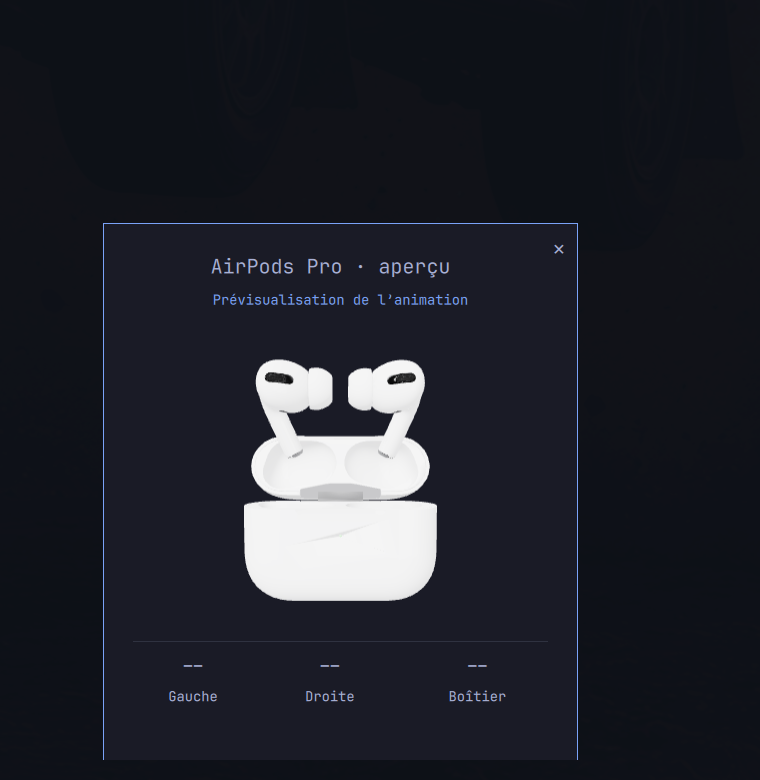
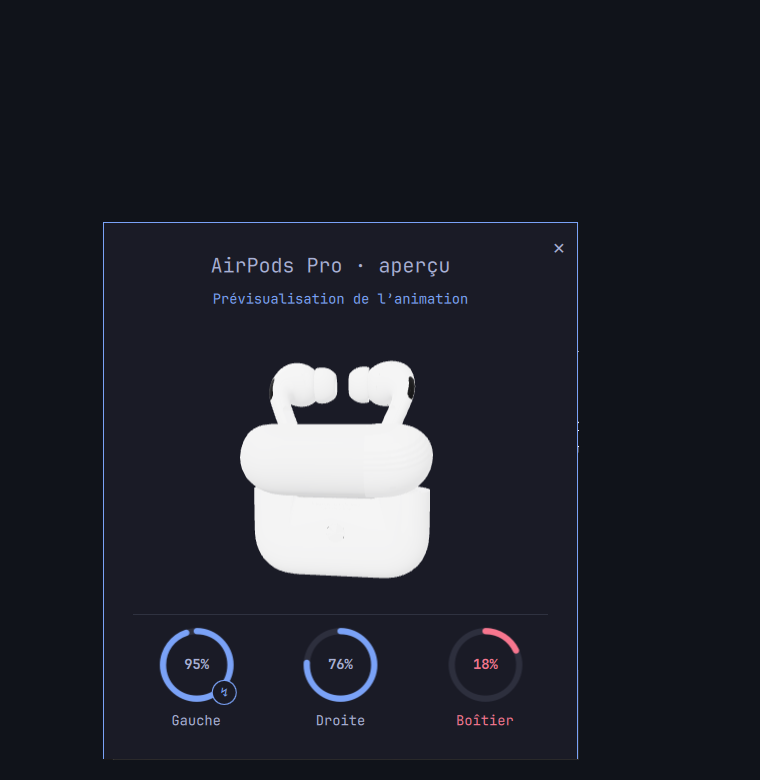
feat: add circular battery indicators

diff --git a/ConnectionCard.qml b/ConnectionCard.qml
@@ -21,11 +21,110 @@ Item {
   readonly property bool showProModel: previewOnly ? previewModel !== "max" : pods && pods.isProSeries
   readonly property bool showThreeDimensionalModel: showMaxModel || showProModel
   readonly property int animationEnd: showMaxModel ? 7800 : 8500
+  readonly property int lowBatteryPercent: 20
 
   readonly property var targetScreen: Quickshell.screens.find(screen =>
     Hyprland.focusedMonitor && screen.name === Hyprland.focusedMonitor.name) || Quickshell.screens[0]
 
   function close() { hideTimer.stop(); exitAnimation.start() }
+
+  function previewBattery(part) {
+    if (part === "left") return { level: 95, charging: true }
+    if (part === "right") return { level: 76, charging: false }
+    if (part === "case") return { level: 18, charging: false }
+    return { level: 82, charging: false }
+  }
+
+  component BatteryRing: ColumnLayout {
+    id: batteryRing
+    required property string label
+    required property var battery
+    readonly property int level: battery && battery.level !== undefined ? battery.level : Model.LEVEL_UNKNOWN
+    readonly property bool charging: battery && battery.charging === true
+    readonly property bool low: level !== Model.LEVEL_UNKNOWN && level <= root.lowBatteryPercent && !charging
+    readonly property color indicatorColor: low ? Color.urgent : Color.accent
+
+    spacing: Style.space(5)
+
+    Item {
+      Layout.alignment: Qt.AlignHCenter
+      implicitWidth: Style.space(64)
+      implicitHeight: Style.space(64)
+
+      Canvas {
+        id: batteryCanvas
+        anchors.fill: parent
+        property real fraction: Model.levelFraction(batteryRing.level)
+        property color activeColor: batteryRing.indicatorColor
+        property color trackColor: Util.alpha(Color.popups.text, 0.13)
+
+        onFractionChanged: requestPaint()
+        onActiveColorChanged: requestPaint()
+        onTrackColorChanged: requestPaint()
+        onWidthChanged: requestPaint()
+        onHeightChanged: requestPaint()
+        onPaint: {
+          var context = getContext("2d")
+          var lineWidth = Math.max(3, Style.space(5))
+          var center = width / 2
+          var radius = Math.max(1, center - lineWidth)
+          var start = -Math.PI / 2
+
+          context.reset()
+          context.lineWidth = lineWidth
+          context.lineCap = "round"
+          context.strokeStyle = trackColor
+          context.beginPath()
+          context.arc(center, center, radius, 0, Math.PI * 2)
+          context.stroke()
+
+          if (fraction > 0) {
+            context.strokeStyle = activeColor
+            context.beginPath()
+            context.arc(center, center, radius, start, start + Math.PI * 2 * fraction)
+            context.stroke()
+          }
+        }
+      }
+
+      Text {
+        anchors.centerIn: parent
+        text: Model.levelText(batteryRing.level)
+        color: batteryRing.low ? Color.urgent : Color.popups.text
+        font.family: Style.font.family
+        font.pixelSize: Style.font.bodySmall
+        font.weight: Font.DemiBold
+      }
+
+      Rectangle {
+        anchors { right: parent.right; bottom: parent.bottom }
+        width: Style.space(20)
+        height: width
+        radius: width / 2
+        visible: batteryRing.charging
+        color: Color.popups.background
+        border.width: Math.max(1, Style.space(1))
+        border.color: Color.accent
+
+        Text {
+          anchors.centerIn: parent
+          text: "\uf0e7"
+          color: Color.accent
+          font.family: Style.font.family
+          font.pixelSize: Style.font.caption
+        }
+      }
+    }
+
+    Text {
+      Layout.fillWidth: true
+      horizontalAlignment: Text.AlignHCenter
+      text: batteryRing.label
+      color: batteryRing.low ? Color.urgent : Color.popups.text
+      font.family: Style.font.family
+      font.pixelSize: Style.font.bodySmall
+    }
+  }
 
   PanelWindow {
     id: window
@@ -137,39 +236,16 @@ Item {
           spacing: Style.space(14)
           Repeater {
             model: root.showMaxModel ? ["headset"] : ["left", "right", "case"]
-            ColumnLayout {
+            BatteryRing {
               required property string modelData
               Layout.fillWidth: true
-              readonly property var battery: root.previewOnly || !root.pods ? ({ level: -1, charging: false })
+              battery: root.previewOnly ? root.previewBattery(modelData)
+                : !root.pods ? ({ level: Model.LEVEL_UNKNOWN, charging: false })
                 : modelData === "left" ? root.pods.leftPod
                 : modelData === "right" ? root.pods.rightPod
                 : modelData === "headset" ? root.pods.headsetBattery : root.pods.caseBattery
-              spacing: Style.space(6)
-              Text {
-                Layout.fillWidth: true
-                horizontalAlignment: Text.AlignHCenter
-                text: Model.levelText(parent.battery.level)
-                color: Color.popups.text
-                font.family: Style.font.family
-                font.pixelSize: Style.font.heading
-              }
-              Text {
-                Layout.fillWidth: true
-                horizontalAlignment: Text.AlignHCenter
-                text: parent.modelData === "left" ? "Gauche" : parent.modelData === "right" ? "Droite"
-                  : parent.modelData === "headset" ? "Casque" : "Boîtier"
-                color: Color.popups.text
-                font.family: Style.font.family
-                font.pixelSize: Style.font.bodySmall
-              }
-              Text {
-                Layout.fillWidth: true
-                horizontalAlignment: Text.AlignHCenter
-                text: parent.battery.charging ? "En charge" : ""
-                color: Color.accent
-                font.family: Style.font.family
-                font.pixelSize: Style.font.caption
-              }
+              label: modelData === "left" ? "Gauche" : modelData === "right" ? "Droite"
+                : modelData === "headset" ? "Casque" : "Boîtier"
             }
           }
         }

diff --git a/README.md b/README.md
@@ -25,6 +25,11 @@ installed by `setup`. Both derived models retain their separate CC BY 4.0
 licenses and credits: [AirPods Pro](assets/airpods/ATTRIBUTION.md) and
 [AirPods Max](assets/airpods-max/ATTRIBUTION.md).
 
+Battery is shown as a separate circular meter for each earbud and the case.
+Charging adds a lightning badge, while a level at or below 20% switches the
+meter and label to the active Omarchy theme's urgent color. AirPods Max use one
+meter for the headset battery.
+
 | AirPods Pro | AirPods Max |
 |:---:|:---:|
 | <img src="docs/connection-card-pro.png" alt="Animated AirPods Pro connection card" width="300"> | <img src="docs/connection-card-max.png" alt="Animated AirPods Max connection card" width="300"> |
